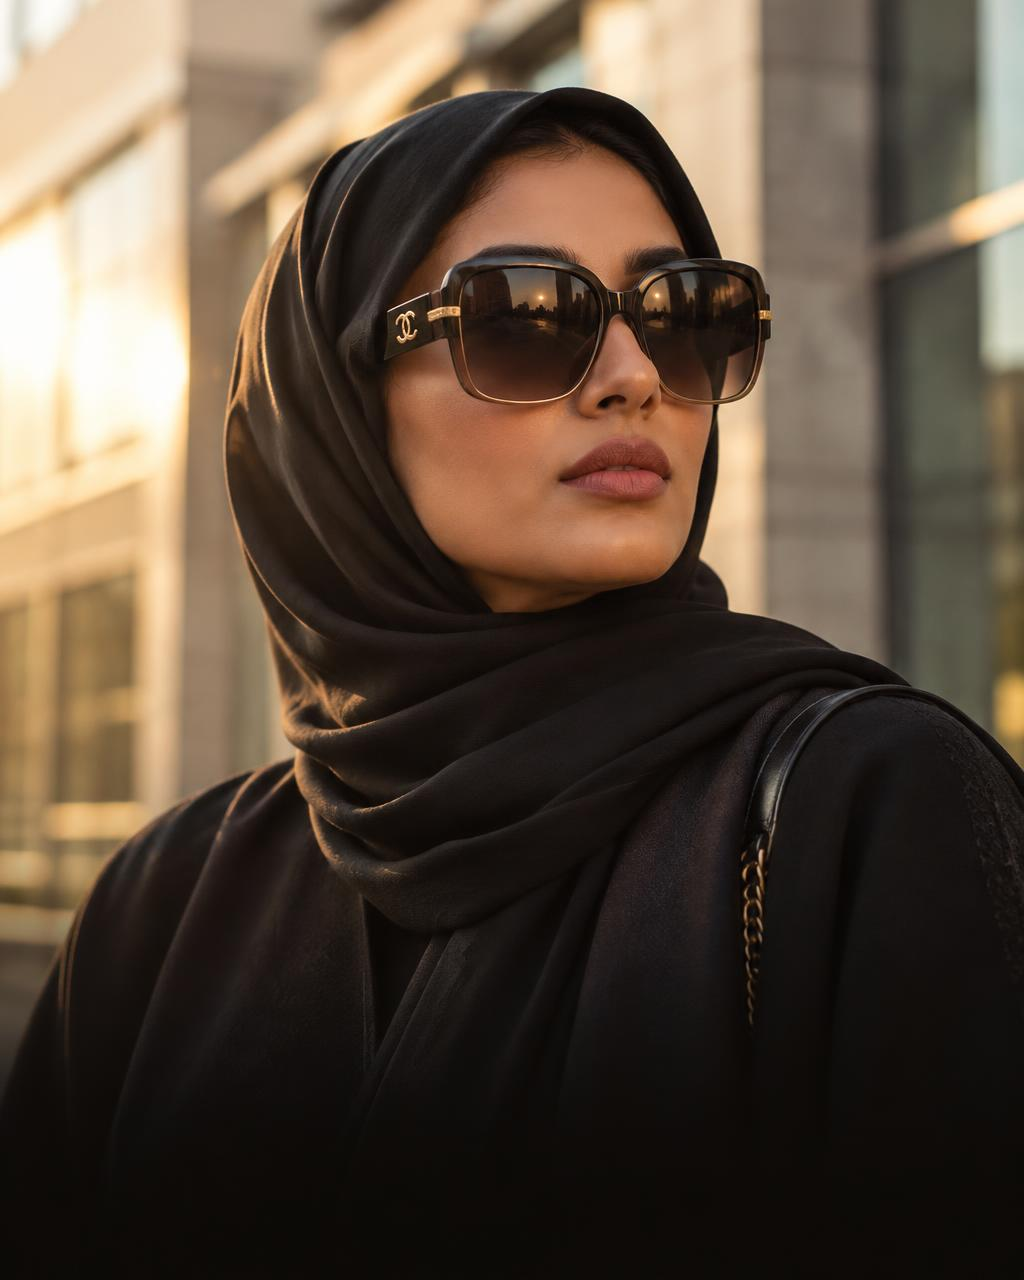
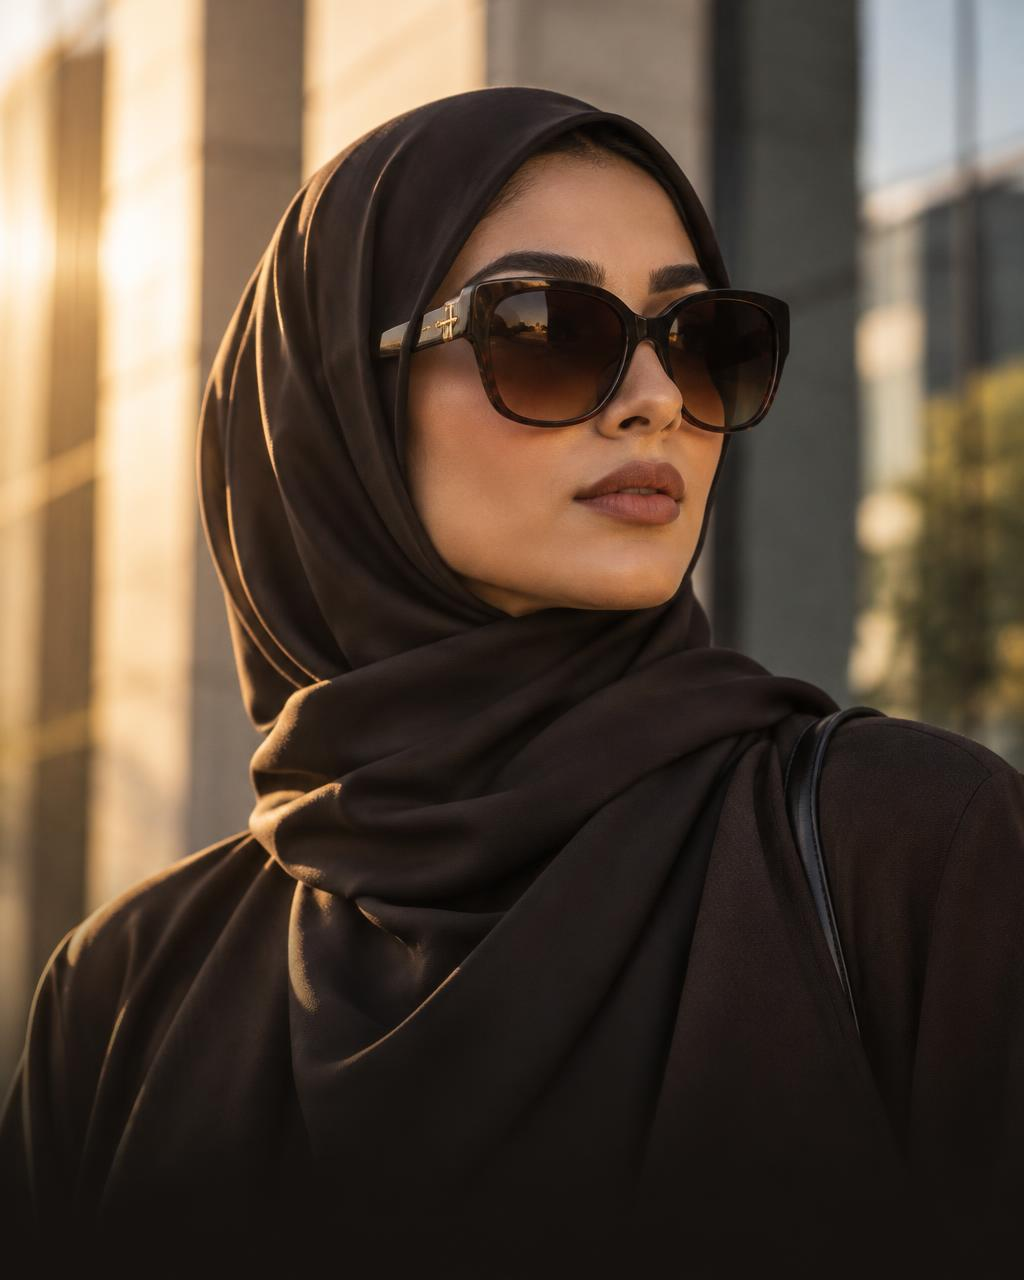
Changes

diff --git a/src/styles.css b/src/styles.css
@@ -5,18 +5,17 @@
 @custom-variant dark (&:is(.dark *));
 
 /*
- * Design system definition.
+ * Design system — Hadeed Eyewear.
  *
- * The @theme inline block maps CSS custom properties to Tailwind utility
- * classes (e.g. --color-primary -> bg-primary, text-primary).
- *
- * The :root and .dark blocks define the actual color values using oklch.
- * All colors MUST use oklch format.
- *
- * To add a new semantic color:
- * 1. Add the variable to :root (light value) and .dark (dark value)
- * 2. Register it in @theme inline as --color-<name>: var(--<name>)
+ * Neutral, warm editorial palette matching the reference: white page,
+ * warm light-gray product surfaces, near-black type, dark footer.
+ * Serif italic accents use Playfair Display; body/headings use Manrope.
  */
+
+@theme {
+  --font-sans: "Manrope", ui-sans-serif, system-ui, sans-serif;
+  --font-serif: "Playfair Display", Georgia, serif;
+}
 
 @theme inline {
   --radius-sm: calc(var(--radius) - 4px);
@@ -45,91 +44,39 @@
   --color-border: var(--border);
   --color-input: var(--input);
   --color-ring: var(--ring);
-  --color-ring-offset-background: var(--background);
-  --color-chart-1: var(--chart-1);
-  --color-chart-2: var(--chart-2);
-  --color-chart-3: var(--chart-3);
-  --color-chart-4: var(--chart-4);
-  --color-chart-5: var(--chart-5);
-  --color-sidebar: var(--sidebar);
-  --color-sidebar-foreground: var(--sidebar-foreground);
-  --color-sidebar-primary: var(--sidebar-primary);
-  --color-sidebar-primary-foreground: var(--sidebar-primary-foreground);
-  --color-sidebar-accent: var(--sidebar-accent);
-  --color-sidebar-accent-foreground: var(--sidebar-accent-foreground);
-  --color-sidebar-border: var(--sidebar-border);
-  --color-sidebar-ring: var(--sidebar-ring);
+  --color-surface: var(--surface);
+  --color-surface-foreground: var(--surface-foreground);
+  --color-footer: var(--footer);
+  --color-footer-foreground: var(--footer-foreground);
+  --color-footer-muted: var(--footer-muted);
 }
 
 :root {
-  --radius: 0.625rem;
+  --radius: 0.375rem;
   --background: oklch(1 0 0);
-  --foreground: oklch(0.129 0.042 264.695);
+  --foreground: oklch(0.17 0.01 75);
   --card: oklch(1 0 0);
-  --card-foreground: oklch(0.129 0.042 264.695);
+  --card-foreground: oklch(0.17 0.01 75);
   --popover: oklch(1 0 0);
-  --popover-foreground: oklch(0.129 0.042 264.695);
-  --primary: oklch(0.208 0.042 265.755);
-  --primary-foreground: oklch(0.984 0.003 247.858);
-  --secondary: oklch(0.968 0.007 247.896);
-  --secondary-foreground: oklch(0.208 0.042 265.755);
-  --muted: oklch(0.968 0.007 247.896);
-  --muted-foreground: oklch(0.554 0.046 257.417);
-  --accent: oklch(0.968 0.007 247.896);
-  --accent-foreground: oklch(0.208 0.042 265.755);
+  --popover-foreground: oklch(0.17 0.01 75);
+  --primary: oklch(0.17 0.01 75);
+  --primary-foreground: oklch(1 0 0);
+  --secondary: oklch(0.965 0.004 85);
+  --secondary-foreground: oklch(0.17 0.01 75);
+  --muted: oklch(0.965 0.004 85);
+  --muted-foreground: oklch(0.5 0.012 80);
+  --accent: oklch(0.94 0.006 85);
+  --accent-foreground: oklch(0.17 0.01 75);
   --destructive: oklch(0.577 0.245 27.325);
   --destructive-foreground: oklch(0.984 0.003 247.858);
-  --border: oklch(0.929 0.013 255.508);
-  --input: oklch(0.929 0.013 255.508);
-  --ring: oklch(0.704 0.04 256.788);
-  --chart-1: oklch(0.646 0.222 41.116);
-  --chart-2: oklch(0.6 0.118 184.704);
-  --chart-3: oklch(0.398 0.07 227.392);
-  --chart-4: oklch(0.828 0.189 84.429);
-  --chart-5: oklch(0.769 0.188 70.08);
-  --sidebar: oklch(0.984 0.003 247.858);
-  --sidebar-foreground: oklch(0.129 0.042 264.695);
-  --sidebar-primary: oklch(0.208 0.042 265.755);
-  --sidebar-primary-foreground: oklch(0.984 0.003 247.858);
-  --sidebar-accent: oklch(0.968 0.007 247.896);
-  --sidebar-accent-foreground: oklch(0.208 0.042 265.755);
-  --sidebar-border: oklch(0.929 0.013 255.508);
-  --sidebar-ring: oklch(0.704 0.04 256.788);
-}
-
-.dark {
-  --background: oklch(0.129 0.042 264.695);
-  --foreground: oklch(0.984 0.003 247.858);
-  --card: oklch(0.208 0.042 265.755);
-  --card-foreground: oklch(0.984 0.003 247.858);
-  --popover: oklch(0.208 0.042 265.755);
-  --popover-foreground: oklch(0.984 0.003 247.858);
-  --primary: oklch(0.929 0.013 255.508);
-  --primary-foreground: oklch(0.208 0.042 265.755);
-  --secondary: oklch(0.279 0.041 260.031);
-  --secondary-foreground: oklch(0.984 0.003 247.858);
-  --muted: oklch(0.279 0.041 260.031);
-  --muted-foreground: oklch(0.704 0.04 256.788);
-  --accent: oklch(0.279 0.041 260.031);
-  --accent-foreground: oklch(0.984 0.003 247.858);
-  --destructive: oklch(0.704 0.191 22.216);
-  --destructive-foreground: oklch(0.984 0.003 247.858);
-  --border: oklch(1 0 0 / 10%);
-  --input: oklch(1 0 0 / 15%);
-  --ring: oklch(0.551 0.027 264.364);
-  --chart-1: oklch(0.488 0.243 264.376);
-  --chart-2: oklch(0.696 0.17 162.48);
-  --chart-3: oklch(0.769 0.188 70.08);
-  --chart-4: oklch(0.627 0.265 303.9);
-  --chart-5: oklch(0.645 0.246 16.439);
-  --sidebar: oklch(0.208 0.042 265.755);
-  --sidebar-foreground: oklch(0.984 0.003 247.858);
-  --sidebar-primary: oklch(0.488 0.243 264.376);
-  --sidebar-primary-foreground: oklch(0.984 0.003 247.858);
-  --sidebar-accent: oklch(0.279 0.041 260.031);
-  --sidebar-accent-foreground: oklch(0.984 0.003 247.858);
-  --sidebar-border: oklch(1 0 0 / 10%);
-  --sidebar-ring: oklch(0.551 0.027 264.364);
+  --border: oklch(0.915 0.005 85);
+  --input: oklch(0.915 0.005 85);
+  --ring: oklch(0.6 0.02 80);
+  --surface: oklch(0.962 0.004 85);
+  --surface-foreground: oklch(0.17 0.01 75);
+  --footer: oklch(0.14 0.006 75);
+  --footer-foreground: oklch(0.97 0.003 85);
+  --footer-muted: oklch(0.65 0.008 85);
 }
 
 @layer base {
@@ -140,5 +87,18 @@
   body {
     background-color: var(--color-background);
     color: var(--color-foreground);
+    font-family: var(--font-sans);
+    -webkit-font-smoothing: antialiased;
   }
+
+  ::selection {
+    background-color: var(--color-primary);
+    color: var(--color-primary-foreground);
+  }
+}
+
+/* Serif-italic accent used for eyebrows and the promo headline line. */
+@utility font-accent {
+  font-family: var(--font-serif);
+  font-style: italic;
 }

diff --git a/src/data/demo-products.ts b/src/data/demo-products.ts
@@ -1,0 +1,149 @@
+// DEMO DATA — every product name, model code, price and color swatch below is
+// editable placeholder content, NOT verified Hadeed Eyewear inventory.
+// Replace names, prices (PKR) and availability with real stock before launch.
+// Real brand names must not be used without the owner's approval.
+
+import product1 from "@/assets/product-1.jpg";
+import product2 from "@/assets/product-2.jpg";
+import product3 from "@/assets/product-3.jpg";
+import product4 from "@/assets/product-4.jpg";
+import product5 from "@/assets/product-5.jpg";
+import product6 from "@/assets/product-6.jpg";
+import product7 from "@/assets/product-7.jpg";
+import product8 from "@/assets/product-8.jpg";
+import trendingEditorial from "@/assets/trending-editorial.jpg";
+import newseasonFeature from "@/assets/newseason-feature.jpg";
+
+export const WHATSAPP_NUMBER = "923363170239";
+
+export function whatsappLink(productName?: string) {
+  const text = productName
+    ? `Hello Hadeed Eyewear, I'm interested in the ${productName}.`
+    : "Hello Hadeed Eyewear, I'd like to ask about your eyewear.";
+  return `https://wa.me/${WHATSAPP_NUMBER}?text=${encodeURIComponent(text)}`;
+}
+
+export interface Product {
+  id: string;
+  category: string;
+  name: string;
+  model: string;
+  price: string;
+  image: string;
+  swatches: string[];
+}
+
+export const featuredBestSellers: Product[] = [
+  {
+    id: "bs-1",
+    category: "Sunglasses",
+    name: "Tortoise Wayfarer Frames",
+    model: "HE-1001",
+    price: "PKR 6,500",
+    image: product1,
+    swatches: ["#8b5a2b", "#3d2b1f", "#1f1f1f", "#7a6548"],
+  },
+  {
+    id: "bs-2",
+    category: "Sunglasses",
+    name: "Black Cat-Eye Frames",
+    model: "HE-1002",
+    price: "PKR 5,900",
+    image: product2,
+    swatches: ["#1f1f1f", "#4a4a4a", "#8c6b4f", "#b0b0b0"],
+  },
+  {
+    id: "bs-3",
+    category: "Sunglasses",
+    name: "Gold Round Metal Frames",
+    model: "HE-1003",
+    price: "PKR 7,200",
+    image: product3,
+    swatches: ["#c9a24b", "#8b5a2b", "#1f1f1f", "#9aa79a"],
+  },
+  {
+    id: "bs-4",
+    category: "Sunglasses",
+    name: "Silver Aviator Frames",
+    model: "HE-1004",
+    price: "PKR 6,800",
+    image: product4,
+    swatches: ["#9aa0a6", "#1f1f1f", "#c9a24b", "#4a5d4a"],
+  },
+  {
+    id: "bs-5",
+    category: "Sunglasses",
+    name: "Bold Square Black Frames",
+    model: "HE-1005",
+    price: "PKR 5,500",
+    image: product5,
+    swatches: ["#1f1f1f", "#3d3d3d", "#6b6b6b", "#9aa0a6"],
+  },
+  {
+    id: "bs-6",
+    category: "Sunglasses",
+    name: "Rose Tinted Round Frames",
+    model: "HE-1006",
+    price: "PKR 6,200",
+    image: product6,
+    swatches: ["#e8a8a8", "#d98c8c", "#c27070", "#f0d0d0"],
+  },
+  {
+    id: "bs-7",
+    category: "Sunglasses",
+    name: "Mint Gold Square Frames",
+    model: "HE-1007",
+    price: "PKR 7,000",
+    image: product7,
+    swatches: ["#a8d5b5", "#7ab58c", "#c9a24b", "#d9e8dd"],
+  },
+  {
+    id: "bs-8",
+    category: "Eyeglasses",
+    name: "Rectangular Tortoise Glasses",
+    model: "HE-1008",
+    price: "PKR 5,200",
+    image: product8,
+    swatches: ["#8b5a2b", "#3d2b1f", "#1f1f1f", "#b89a78"],
+  },
+];
+
+export const featuredNewArrivals: Product[] = [
+  featuredBestSellers[5],
+  featuredBestSellers[6],
+  featuredBestSellers[2],
+  featuredBestSellers[0],
+  featuredBestSellers[3],
+  featuredBestSellers[7],
+  featuredBestSellers[1],
+  featuredBestSellers[4],
+];
+
+export const everyLookGrid: Product[] = [
+  featuredBestSellers[0],
+  featuredBestSellers[1],
+  featuredBestSellers[2],
+  featuredBestSellers[4],
+  featuredBestSellers[6],
+  featuredBestSellers[5],
+  featuredBestSellers[7],
+  featuredBestSellers[3],
+];
+
+export const trendingProducts: Product[] = [
+  featuredBestSellers[1],
+  featuredBestSellers[0],
+  featuredBestSellers[6],
+  featuredBestSellers[3],
+];
+
+export const trendingEditorialImage = trendingEditorial;
+
+export const newSeasonGrid: Product[] = [
+  featuredBestSellers[5],
+  featuredBestSellers[2],
+  featuredBestSellers[6],
+  featuredBestSellers[4],
+];
+
+export const newSeasonFeatureImage = newseasonFeature;
